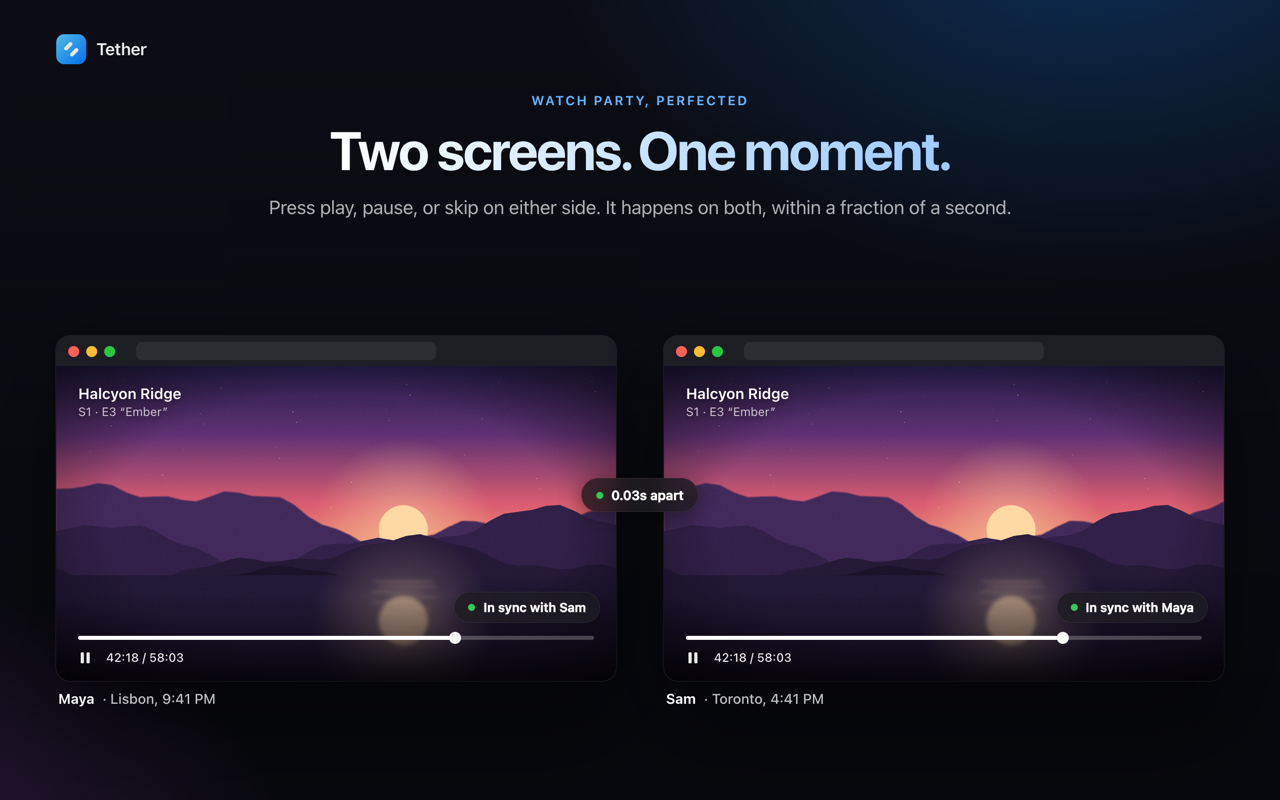
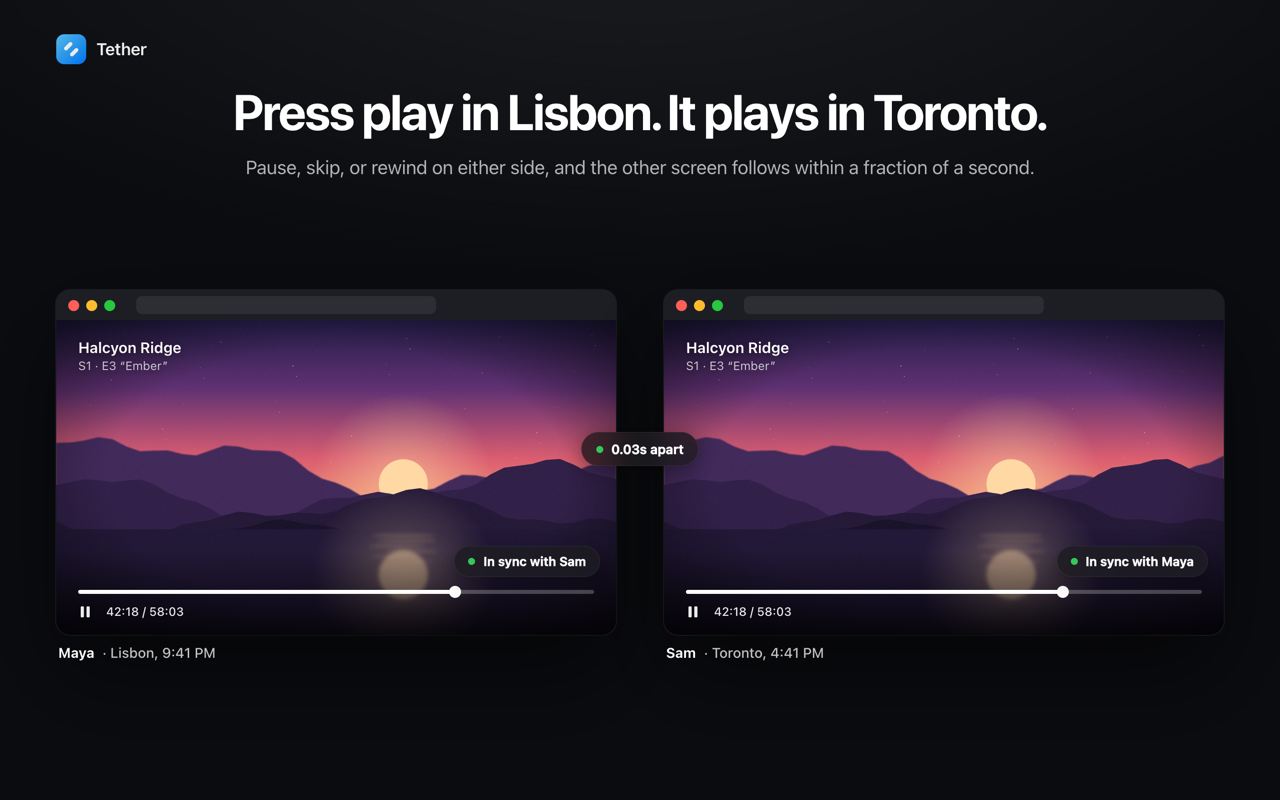
Rewrite store copy and screenshots in plain language
Drop stock marketing phrasing ("perfected", "just keeps up", "by design",
fragment taglines, all-caps kickers, gradient headline text, glow blobs) for
concrete sentences, a calmer background, and specific claims in every
language.

diff --git a/store/screenshots/src/shots.html b/store/screenshots/src/shots.html
@@ -6,10 +6,7 @@
   html, body { width: 1280px; height: 800px; overflow: hidden; }
   body {
     font-family: var(--font); color: #fff; -webkit-font-smoothing: antialiased; position: relative;
-    background:
-      radial-gradient(900px 600px at 85% -10%, rgba(10,132,255,0.28), transparent 60%),
-      radial-gradient(700px 500px at -10% 110%, rgba(191,90,242,0.22), transparent 60%),
-      linear-gradient(180deg, #0c0d14 0%, #07080d 100%);
+    background: radial-gradient(1200px 520px at 50% -12%, rgba(255,255,255,0.07), transparent 70%), #0b0c10;
   }
   .brand { position: absolute; top: 34px; left: 56px; display: flex; align-items: center; gap: 10px; font: 600 17px var(--font); letter-spacing: -0.01em; opacity: 0.92; }
   .brand img { width: 30px; height: 30px; border-radius: 8px; }
@@ -89,24 +86,22 @@ const cursor = (x, y) => `<svg class="cursor" style="left:${x}px;top:${y}px" vie
 
 const shots = {
   1: () => `
-    <div style="position:absolute;top:92px;left:0;right:0;text-align:center">
-      <div class="kicker">Watch party, perfected</div>
-      <h1><span class="grad">Two screens. One moment.</span></h1>
-      <div class="sub">Press play, pause, or skip on either side. It happens on both, within a fraction of a second.</div>
+    <div style="position:absolute;top:86px;left:0;right:0;text-align:center">
+      <h1 style="font-size:50px">Press play in Lisbon. It plays in Toronto.</h1>
+      <div class="sub">Pause, skip, or rewind on either side, and the other screen follows within a fraction of a second.</div>
     </div>
-    ${win({ x: 56, y: 336, w: 560, h: 315, scene: 'dusk', title: 'Halcyon Ridge', ep: 'S1 · E3 “Ember”', time: '42:18', total: '58:03', pct: 73,
+    ${win({ x: 56, y: 290, w: 560, h: 315, scene: 'dusk', title: 'Halcyon Ridge', ep: 'S1 · E3 “Ember”', time: '42:18', total: '58:03', pct: 73,
       inner: `<div class="pill glass" style="right:16px;bottom:58px"><span class="dot"></span>In sync with Sam</div>` })}
-    ${win({ x: 664, y: 336, w: 560, h: 315, scene: 'dusk', title: 'Halcyon Ridge', ep: 'S1 · E3 “Ember”', time: '42:18', total: '58:03', pct: 73,
+    ${win({ x: 664, y: 290, w: 560, h: 315, scene: 'dusk', title: 'Halcyon Ridge', ep: 'S1 · E3 “Ember”', time: '42:18', total: '58:03', pct: 73,
       inner: `<div class="pill glass" style="right:16px;bottom:58px"><span class="dot"></span>In sync with Maya</div>` })}
-    <div class="pill glass" style="left:50%;top:478px;transform:translateX(-50%);padding:9px 15px;font-size:13px;z-index:2"><span class="dot"></span>0.03s apart</div>
-    <div class="label" style="left:58px;top:690px"><b>Maya</b> · Lisbon, 9:41 PM</div>
-    <div class="label" style="left:666px;top:690px"><b>Sam</b> · Toronto, 4:41 PM</div>`,
+    <div class="pill glass" style="left:50%;top:432px;transform:translateX(-50%);padding:9px 15px;font-size:13px;z-index:2"><span class="dot"></span>0.03s apart</div>
+    <div class="label" style="left:58px;top:644px"><b>Maya</b> · Lisbon, 9:41 PM</div>
+    <div class="label" style="left:666px;top:644px"><b>Sam</b> · Toronto, 4:41 PM</div>`,
 
   2: () => `
     <div style="position:absolute;left:56px;top:190px;width:410px">
-      <div class="kicker">Chat on the video</div>
-      <h1 style="font-size:46px">Talk without<br>leaving the show.</h1>
-      <div class="sub">Chat and reactions sit right on the video, even in fullscreen. No second screen, no video call.</div>
+      <h1 style="font-size:48px">Chat right on<br>the video.</h1>
+      <div class="sub">It stays there in fullscreen, and it's the same conversation you'll find in the Tether popup.</div>
     </div>
     ${win({ x: 486, y: 110, w: 740, h: 560, scene: 'aurora', title: 'Northline', ep: 'S2 · E1 “First Light”', time: '18:52', total: '47:10', pct: 40,
       inner: `
@@ -135,28 +130,27 @@ const shots = {
       ${cursor(476, 48)}
       <div class="pill glass" style="right:18px;bottom:60px;font-size:12.5px;gap:7px"><span style="font-size:13px">👥</span>Watch together</div>` })}
     <div style="position:absolute;left:846px;top:200px;width:380px">
-      <div class="kicker">One tap to join</div>
-      <h1>They're invited.<br>Never pulled in.</h1>
-      <div class="sub">Start a session and an invite appears on their screen. Nothing syncs until they tap Join, and joining brings them right to your moment.</div>
+      <h1>They choose<br>when to join.</h1>
+      <div class="sub">Starting a session sends an invite to their screen. Nothing changes on their side until they tap Join, and then they land on your exact moment.</div>
     </div>`,
 
   4: () => `
     <div style="position:absolute;top:96px;left:56px;right:56px">
-      <div class="kicker">Built for real life</div><h1>It just keeps up.</h1>
-      <div class="sub" style="margin-top:12px">Ad breaks, switching tabs, and who did what, all handled for you.</div>
+      <h1>The parts that usually go wrong.</h1>
+      <div class="sub" style="margin-top:12px">What Tether does when you hit an ad, switch tabs, or one of you pauses.</div>
     </div>
     <div class="tile" style="left:56px;top:292px">
       <div class="mini">${scene('dusk')}<div class="pill glass" style="left:14px;top:14px;font-size:12px;background:rgba(255,204,0,0.92);color:#1c1c1e;box-shadow:none">Ad · 0:15</div>
         <div class="pill glass" style="right:12px;bottom:12px;font-size:12px"><span class="dot" style="background:#0a84ff"></span>Rejoining Sam when the ad ends</div></div>
-      <h3>Different ads? Still in sync.</h3><p>On ad-supported plans, Tether waits out the break, then brings you back together.</p>
+      <h3>Ad breaks don't split you up</h3><p>On plans with ads, Tether waits for your ad to end, then puts you back where Sam is.</p>
     </div>
     <div class="tile" style="left:456px;top:292px">
       <div class="mini">${scene('aurora')}
         <div style="position:absolute;left:14px;right:14px;top:14px;display:flex;gap:6px">
           <div style="height:26px;flex:1;border-radius:7px;background:rgba(255,255,255,0.12);font:500 11.5px var(--font);display:flex;align-items:center;padding:0 10px;color:rgba(255,255,255,0.6)">Recipes · new tab</div>
           <div style="height:26px;flex:1;border-radius:7px;background:rgba(255,255,255,0.26);font:600 11.5px var(--font);display:flex;align-items:center;padding:0 10px">▶ Northline</div></div>
-        <div class="pill glass" style="right:12px;bottom:12px;font-size:12px"><span class="dot"></span>Still playing, still in sync</div></div>
-      <h3>Switch tabs freely.</h3><p>Check a message or look something up. The show keeps playing for both of you.</p>
+        <div class="pill glass" style="right:12px;bottom:12px;font-size:12px"><span class="dot"></span>Still playing in the other tab</div></div>
+      <h3>Switch tabs, keep watching</h3><p>Reply to a message or look something up. The show keeps playing on both screens.</p>
     </div>
     <div class="tile" style="left:856px;top:292px">
       <div class="mini">${scene('dunes')}
@@ -164,19 +158,18 @@ const shots = {
           <div class="pill glass" style="position:static;font-size:12px">Sam paused</div>
           <div class="pill glass" style="position:static;font-size:12px">Sam skipped to 1:02:14</div>
           <div class="pill glass" style="position:static;font-size:12px;padding:5px 5px 5px 12px">Sam is watching something else <span class="btnblue" style="font-size:11.5px;padding:5px 10px">Join them</span></div></div></div>
-      <h3>Always know who did what.</h3><p>Pauses, skips, and speed changes are named, and one click follows them to a new episode.</p>
+      <h3>You'll know who paused</h3><p>Pauses, skips, and speed changes show who made them. If Sam moves on to another episode, you can follow in one click.</p>
     </div>`,
 
   5: () => `
     <div style="position:absolute;left:96px;top:96px;width:340px;height:704px;border-radius:16px 16px 0 0;overflow:hidden;box-shadow:0 40px 90px rgba(0,0,0,0.6),0 0 0 1px rgba(255,255,255,0.1);-webkit-mask-image:linear-gradient(#000 76%, transparent 100%);mask-image:linear-gradient(#000 76%, transparent 100%)">
       <iframe id="pop" src="/popup_test.html?id=u_shot&room=K7Q2MX&name=Maya&lang=en" style="width:340px;height:704px;border:0;display:block"></iframe></div>
-    <div style="position:absolute;left:530px;top:118px;width:660px">
-      <div class="kicker">Private by design</div>
-      <h1>Shares nothing until<br>you watch together.</h1>
-      <div class="check"><span class="c">✓</span><div>You start it, or you accept an invite<small>Outside a session, nothing about what you watch leaves your browser.</small></div></div>
-      <div class="check"><span class="c">✓</span><div>Ends when you're done<small>End it anytime, or it ends itself after 30 minutes without a video.</small></div></div>
-      <div class="check"><span class="c">✓</span><div>Never touches the video<small>Only playback timing is shared. Delete your chat and notes anytime.</small></div></div>
-      <div class="check"><span class="c">✓</span><div>Free. No account. 7 languages.<small>English, Español, Português, Français, Deutsch, हिन्दी, 日本語</small></div></div>
+    <div style="position:absolute;left:530px;top:150px;width:660px">
+      <h1>Nothing is shared until<br>you start a session.</h1>
+      <div class="check"><span class="c">✓</span><div>You start it, or you accept an invite<small>Outside a session, what you watch stays in your browser.</small></div></div>
+      <div class="check"><span class="c">✓</span><div>It ends when you're done<small>End it yourself, or it ends after 30 minutes with no video open.</small></div></div>
+      <div class="check"><span class="c">✓</span><div>It never touches the video<small>Only playback timing is shared. You can delete chat and notes anytime.</small></div></div>
+      <div class="check"><span class="c">✓</span><div>It's free, and there's no account<small>Available in English, Español, Português, Français, Deutsch, हिन्दी, and 日本語.</small></div></div>
     </div>`,
 };
 stage.innerHTML = shots[SHOT]();
